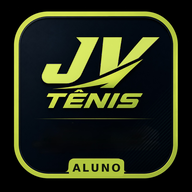
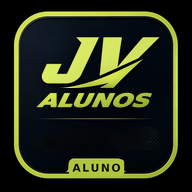
No icone do Aluno, TENIS vira ALUNOS
Quem olha a tela de inicio le' primeiro a palavra grande sob o "JV". Ali
estava "TENIS", igual a' da Gestao, e o que separava os dois apps era a
pastilha pequena embaixo. Com "ALUNOS" no lugar, o app se identifica de
longe — inclusive no icone de 60 px, onde a pastilha ja' nao se le'.

A arte so' existe em PNG, entao a troca e' um script e nao um retoque a
mao: ferramentas/escrever-alunos.py acha a moldura limao para saber em
que escala esta' cada arquivo, apaga a faixa da palavra reconstruindo o
fundo entre duas linhas limpas, e escreve "ALUNOS" com a mesma altura de
caixa (39), a mesma haste (15,6), a mesma barra (9,2), a mesma
inclinacao (0,49) e o mesmo degrade da palavra que saiu. Todos esses
numeros foram medidos no proprio "TENIS" e estao no cabecalho do script,
com o valor medido ao lado. O degrade e' um ajuste por minimos quadrados
nos 3.397 pixels de miolo da palavra antiga — erro medio de 2,4 niveis
em 255.

Cada um dos onze arquivos (icones e telas de abertura) e' tratado na
resolucao dele, e nao ampliado a partir do de 512: as telas de abertura
tem a arte ate' 1,26x, e ampliar borraria o logo inteiro.

Duas armadilhas que apareceram no caminho:

- so' existem duas linhas limpas acima da palavra, entre o acento do "E"
  e o alto das letras. Nos arquivos ampliados a borda suavizada do acento
  invadia a de cima, e a coluna inteira saia esverdeada. Agora cada
  coluna e' conferida antes de servir de referencia;
[…]

Changed region(s): [[0.1875, 0.4375, 0.8125, 0.5625]]

diff --git a/ferramentas/escrever-alunos.py b/ferramentas/escrever-alunos.py
@@ -1,0 +1,216 @@
+#!/usr/bin/env python3
+# -*- coding: utf-8 -*-
+"""Troca o "TENIS" verde do icone do App do Aluno por "ALUNOS".
+
+   Por que existe: o icone do aluno era o mesmo da Gestao, com a palavra
+   "TENIS" sob o "JV" e um rotulo "ALUNO" embaixo. Quem olha a tela de inicio
+   le' primeiro a palavra grande. Com "ALUNOS" ali, o app se identifica de
+   longe, sem precisar ler a pastilha.
+
+   Como funciona, e por que nao e' um retoque a mao: a arte so' existe em PNG,
+   entao o script (1) acha a moldura limao para saber em que escala aquele
+   arquivo esta', (2) apaga a faixa da palavra reconstruindo o fundo por
+   interpolacao entre uma linha limpa acima e outra abaixo, e (3) escreve
+   "ALUNOS" com a mesma altura de caixa, a mesma espessura de haste, a mesma
+   inclinacao e o mesmo degrade da palavra que saiu. Os numeros de (3) foram
+   medidos no proprio "TENIS" do arquivo de 512 px — estao em MEDIDAS abaixo,
+   com o valor medido ao lado.
+
+   Como o desenho e' o mesmo em todos os tamanhos (o de 192, o -mask e as sete
+   telas de abertura sao a mesma arte em outra escala), cada arquivo e' tratado
+   na resolucao dele: a palavra e' desenhada grande e reduzida no fim, em vez
+   de ampliar o icone de 512.
+
+   Roda em cima dos proprios arquivos. Rodar de novo e' seguro: a faixa que ele
+   apaga cobre "ALUNOS" inteiro, entao a segunda passada apaga e reescreve a
+   mesma palavra no mesmo lugar.
+
+   Uso, a partir da raiz do repositorio:
+       python3 ferramentas/escrever-alunos.py
+"""
+import os
+from PIL import Image, ImageChops, ImageDraw, ImageFont
+
+FONTE = '/usr/share/fonts/truetype/dejavu/DejaVuSans-Bold.ttf'
+PALAVRA = 'ALUNOS'
+
+# --- Medidas, em pixels do arquivo de 512 (o "unidade de icone" do resto) ----
+# A moldura limao do icone de 512: e' ela que diz a escala de cada arquivo.
+MOLDURA = (37, 31, 473, 475)
+
+# A faixa que sai. Comeca em y=237 de proposito: o risco sob o "JV" termina
+# em y=236, e o acento do "E" comeca em 238 — apagar a partir dai leva o
+# acento junto e nao encosta no risco. A linha fina embaixo fica em y=316.
+# Ela e' um pouco mais larga que o "TENIS" que sai (x 125..379) de proposito:
+# "ALUNOS" ocupa x 98..405, e apagar a faixa inteira e' o que deixa o script
+# poder rodar de novo por cima do proprio resultado.
+FAIXA = (95, 237, 410, 292)
+LINHA_LIMPA_CIMA, LINHA_LIMPA_BAIXO = 246, 293
+
+# Onde a palavra nova e' desenhada. E' maior que FAIXA porque "ALUNOS" passa um
+# pouco dos dois lados de onde estava o "TENIS" — e passa por cima de fundo
+# limpo, o que nao atrapalha.
+CAIXA_PALAVRA = (88, 238, 418, 296)
+
+# A palavra: base em y=287 e altura de caixa 39, as mesmas do "TENIS".
+BASE_Y, CAIXA = 287.0, 39.0
+CENTRO_X = 255.0          # o "TENIS" estava centrado no painel (x 49..462)
+INCLINACAO = 0.49         # medido na haste do "I": 18 px de recuo em 36 de altura
+
+# Como chegar na mesma letra com a DejaVu Sans Bold: corpo 48.4, contorno de
+# 1.385 e 1.33 de largura. O contorno engorda a letra (a DejaVu Bold sozinha e'
+# leve demais) e vem ANTES do alargamento — e' por isso que a haste vertical
+# fica com 15.6 e a barra horizontal com 9.2, a mesma diferenca do "TENIS".
+# Atencao: o stroke_width do Pillow cresce para os dois lados, entao ele soma
+# 2 x CONTORNO a' espessura, nao CONTORNO.
+CORPO, CONTORNO, LARGURA = 48.4, 1.385, 1.33
+
+# O degrade da palavra, ajustado por minimos quadrados nos 3.397 pixels de
+# miolo do "TENIS" (erro medio de 2,4 niveis em 255): claro em cima e a
+# esquerda, escuro embaixo e a direita.
+COR = ((476.01, -0.1932, -0.9099),
+       (449.16, -0.1581, -0.7683),
+       (184.50, -0.0785, -0.3673))
+
+ARQUIVOS = ['app-aluno/jv-icone-aluno.png',
+            'app-aluno/jv-icone-aluno-192.png',
+            'app-aluno/jv-icone-aluno-512.png',
+            'app-aluno/jv-icone-aluno-mask.png']
+ARQUIVOS += ['app-aluno/splash-aluno-%s.png' % t for t in
+             ('750x1334', '828x1792', '1125x2436', '1170x2532',
+              '1179x2556', '1242x2688', '1290x2796')]
+
+
+def moldura_limao(im):
+    """Onde esta' a moldura verde desta imagem — da' a escala e o deslocamento."""
+    g, b = im.getchannel('G'), im.getchannel('B')
+    claro = g.point(lambda v: 255 if v > 90 else 0)
+    verde = ImageChops.subtract(g, b).point(lambda v: 255 if v > 40 else 0)
+    return ImageChops.multiply(claro, verde).getbbox()
+
+
+def escala(im):
+    """(fator, deslocamento) que leva unidade-de-icone para pixel desta imagem."""
+    x0, y0, x1, y1 = moldura_limao(im)
+    mx0, my0, mx1, my1 = MOLDURA
+    # getbbox() devolve o limite de fora, por isso o -1 nos dois cantos finais.
+    sx = (x1 - 1 - x0) / (mx1 - mx0)
+    sy = (y1 - 1 - y0) / (my1 - my0)
+    s = (sx + sy) / 2                      # a arte e' quadrada: um fator so'
+    if abs(sx - sy) > 0.01 * s:
+        raise SystemExit('arte fora de esquadro neste arquivo: %.3f x %.3f' % (sx, sy))
+    return s, (x0 - mx0 * s, y0 - my0 * s)
+
+
+def tem_verde(cor):
+    """Sobrou tinta da marca neste pixel? Usado para nao copiar letra por fundo."""
+    r, g, b = cor[:3]
+    return g > 40 and g > b + 25
+
+
+def apagar_faixa(im, s, dx, dy):
+    """Tira a palavra antiga e refaz o fundo entre duas linhas limpas.
+
+       So' ha' duas linhas limpas acima da palavra (246 e 247 em unidade-de-
+       icone, entre o acento do "E" e o alto das letras). Em arquivo ampliado,
+       a borda suavizada do acento as vezes invade a de cima — e ai' a coluna
+       inteira saia esverdeada. Por isso cada coluna e' conferida: se a
+       referencia de cima ainda tem verde, aquela coluna e' preenchida so' com
+       a de baixo, que tem folga de sobra (o fundo e' limpo de 289 a 315).
+    """
+    px = im.load()
+    fx0, fy0, fx1, fy1 = FAIXA
+    X0, X1 = int(round(fx0 * s + dx)), int(round(fx1 * s + dx))
+    Y0, Y1 = int(round(fy0 * s + dy)), int(round(fy1 * s + dy))
+    ya = int(round(LINHA_LIMPA_CIMA * s + dy))
+    yb = int(round(LINHA_LIMPA_BAIXO * s + dy))
+    sujas = 0
+    for x in range(X0, X1 + 1):
+        ca, cb = px[x, ya][:3], px[x, yb][:3]
+        if tem_verde(ca):
+            ca = cb
+            sujas += 1
+        for y in range(Y0, Y1 + 1):
+            t = (y - ya) / (yb - ya)
+            t = 0.0 if t < 0 else (1.0 if t > 1 else t)
+            px[x, y] = tuple(int(round(a * (1 - t) + b * t)) for a, b in zip(ca, cb))
+    return sujas
+
+
+def mascara_palavra(s, dx, dy):
+    """ALUNOS inclinado, em tom de cinza, no tamanho e no lugar desta imagem.
+
+       Devolve (mascara, canto), com a mascara ja' do tamanho de CAIXA_PALAVRA
+       em pixels da imagem — nunca da imagem inteira, senao a tela de abertura
+       de 1290x2796 viraria um desenho de dezenas de milhoes de pixels.
+    """
+    SS = 8 if s >= 1 else 12               # quanto maior a reducao, mais amostra
+    e = s * SS                             # pixel-de-icone -> pixel do desenho
+    corpo = max(8, int(round(CORPO * e)))
+    contorno = max(1, int(round(CONTORNO * e)))
+    fonte = ImageFont.truetype(FONTE, corpo)
+
+    # 1. a palavra em pe', ja' engordada
+    folga = corpo * 3
+    tela = Image.new('L', (int(corpo * len(PALAVRA) * 1.4) + folga * 2, corpo * 3), 0)
+    d = ImageDraw.Draw(tela)
+    ub, vb = folga, corpo * 2              # ancora: comeco da linha de base
+    d.text((ub, vb), PALAVRA, font=fonte, fill=255,
+           stroke_width=contorno, stroke_fill=255, anchor='ls')
+    cx0, cy0, cx1, cy1 = tela.getbbox()
+
+    # 2. largura, inclinacao e posicao, tudo numa transformacao so'
+    larg = (cx1 - cx0) * LARGURA + INCLINACAO * (cy1 - cy0)
+    X0 = (CENTRO_X * s + dx) * SS - larg / 2 - (cx0 - ub) * LARGURA
+    Y0 = (BASE_Y * s + dy) * SS            # a linha de base, em pixel do desenho
+
+    px0, py0, px1, py1 = CAIXA_PALAVRA
+    canto = (int(px0 * s + dx), int(py0 * s + dy))
+    tam = (int(round((px1 - px0) * s)) * SS, int(round((py1 - py0) * s)) * SS)
+
+    # inverso de: X = X0 + (u-ub)*LARGURA + INCLINACAO*(Y0-Y) ; Y = Y0 + (v-vb)
+    # com X,Y medidos a partir do canto da caixa.
+    a = 1 / LARGURA
+    b = INCLINACAO / LARGURA
+    c = ub - (X0 + INCLINACAO * Y0) / LARGURA + a * canto[0] * SS + b * canto[1] * SS
+    f = vb - Y0 + canto[1] * SS
+    masc = tela.transform(tam, Image.AFFINE, (a, b, c, 0, 1, f), resample=Image.BILINEAR)
+    return masc.resize((tam[0] // SS, tam[1] // SS), Image.LANCZOS), canto
+
+
+def escrever(caminho):
+    im = Image.open(caminho).convert('RGB')
+    s, (dx, dy) = escala(im)
+    sujas = apagar_faixa(im, s, dx, dy)
+
+    masc, (ox, oy) = mascara_palavra(s, dx, dy)
+    px, mp = im.load(), masc.load()
+    larg, alt = im.size
+    pintados = 0
+    for y in range(masc.height):
+        iy = (y + oy - dy) / s             # de volta para unidade-de-icone
+        if not 0 <= y + oy < alt:
+            continue
+        for x in range(masc.width):
+            al = mp[x, y]
+            if al == 0 or not 0 <= x + ox < larg:
+                continue
+            ix = (x + ox - dx) / s
+            cor = [c[0] + c[1] * ix + c[2] * iy for c in COR]
+            t = al / 255
+            px[x + ox, y + oy] = tuple(
+                max(0, min(255, int(round(o * (1 - t) + c * t))))
+                for o, c in zip(px[x + ox, y + oy], cor))
+            pintados += 1
+    im.save(caminho)
+    return s, pintados, sujas
+
+
+if __name__ == '__main__':
+    for caminho in ARQUIVOS:
+        if not os.path.exists(caminho):
+            print('  faltando: %s' % caminho)
+            continue
+        s, n, sujas = escrever(caminho)
+        print('  %-40s escala %.3f  %6d px de letra%s'
+              % (caminho, s, n, '  (%d colunas so pela de baixo)' % sujas if sujas else ''))

diff --git a/README.md b/README.md
@@ -64,10 +64,14 @@ gera o conteúdo.
   escrito na pastilha de baixo) e se gera com
   `node ferramentas/gerar-icone-exercicios.js` — é o único app da JV que não usa
   o logo, justamente para não virar mais um ícone igual na tela de início.
-- **Os três ícones da JV** se distinguem pela pastilha de baixo (`GESTÃO`,
-  `ALUNO`, `EXERCÍCIOS`). Na Gestão e no Aluno a arte é a original; só o `JV`,
-  que era branco, virou **verde-limão** (`#DDEE66`) — ícones e telas de abertura
-  são repintados por `python3 ferramentas/pintar-jv-limao.py`, que roda em cima
-  dos próprios arquivos e pode ser repetido sem estragar nada.
+- **Os três ícones da JV** se distinguem pela palavra grande — `JV TÊNIS`,
+  `JV ALUNOS`, a quadra — e pela pastilha de baixo (`GESTÃO`, `ALUNO`,
+  `EXERCÍCIOS`). Dois scripts fazem as mudanças em cima dos próprios PNGs, e
+  os dois podem ser repetidos sem estragar nada:
+  - `python3 ferramentas/pintar-jv-limao.py` deixa o `JV`, que era branco,
+    **verde-limão** (`#DDEE66`) na Gestão e no Aluno, ícones e telas de abertura;
+  - `python3 ferramentas/escrever-alunos.py` troca o `TÊNIS` do Aluno por
+    `ALUNOS`, com a mesma altura, espessura, inclinação e degradê da palavra que
+    saiu — as medidas estão no cabeçalho do script, com o valor medido ao lado.
 - O **site** tem as imagens embutidas em base64 no próprio `index.html`; a pasta
   `site/imagens/` é mantida apenas como cópia dos originais.

diff --git a/app-exercicios/LEIA-ME.md b/app-exercicios/LEIA-ME.md
@@ -215,15 +215,19 @@ do fundo, o **verde-limão da marca** (`#CBDD4B`) na borda e a **pastilha com o
 nome** encostada na borda de baixo — onde a Gestão escreve `GESTÃO` e o Aluno
 escreve `ALUNO`, este escreve `EXERCÍCIOS`.
 
-Os outros dois continuam com a arte original; a única mudança lá foi o **`JV`,
-que era branco e agora é limão** (`#DDEE66`, o mesmo tom do risco sob a marca,
-um pouco mais claro que o `TÊNIS` logo abaixo). Quem faz isso é:
+Os outros dois continuam com a arte original. Duas coisas mudaram lá: o **`JV`,
+que era branco e agora é limão** (`#DDEE66`, o mesmo tom do risco sob a marca),
+e a **palavra grande do App do Aluno, que era `TÊNIS` e virou `ALUNOS`** — é ela
+que se lê primeiro na tela de início, e agora o app se identifica sem precisar
+da pastilha. Quem faz as duas é:
 
 ```sh
 python3 ferramentas/pintar-jv-limao.py
+python3 ferramentas/escrever-alunos.py
 ```
 
-que repinta os ícones e as splashes da Gestão e do Aluno.
+em cima dos próprios PNGs (ícones e telas de abertura), e os dois podem ser
+repetidos sem estragar nada.
 
 Para gerar de novo, depois de mexer no desenho:
 
